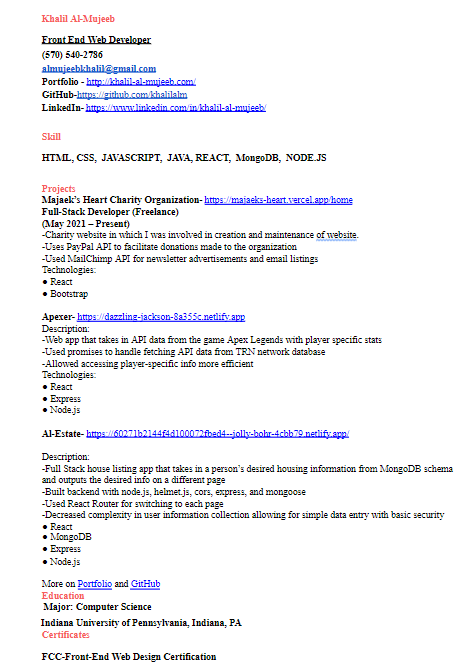
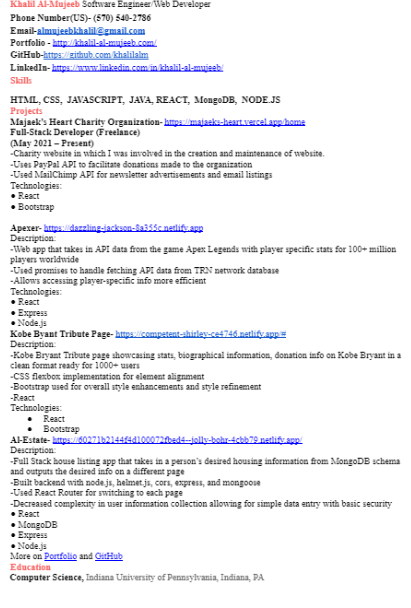
fixed the resume section and contact section

Changed region(s): [[0.0292, 0.0, 0.9927, 1.0]]

diff --git a/src/components/projects.js b/src/components/projects.js
@@ -5,6 +5,7 @@ import twitch from "../images/twitch.jpg";
 import alEstate from "../images/home.jpg";
 import apexer from "../images/Apexer.jpg";
 import kobe from "../images/KB1.jpg";
+import majaek from "../images/Majaek.jpg"
 
 class projects extends Component {
   state = {};
@@ -17,14 +18,14 @@ class projects extends Component {
           {" "}
 
 
-          <a href="https://dazzling-jackson-8a355c.netlify.app/">
+          <a href="https://dazzling-jackson-8a355c.netlify.app/" target="_blank">
             <div
               className="textOverImage"
               data-text="Apexer                                                                                                                                                                                                                               Apex Stat Tracking App made using
            TRN developer api for stat information and then used express to
            get the URL for the api.                                                                                                                                                                                                                                                                                                                                                                                                                                                         Technologies: -HTML -CSS -React -NodeJS "
             >
-              <a className="portfolio-item">
+              <a className="portfolio-item" target="_blank">
                 <img className="portfolio-img" src={apexer}></img>
               </a>
             </div>
@@ -34,13 +35,13 @@ class projects extends Component {
 
 
 
-          <a href="https://competent-shirley-ce4746.netlify.app">
+          <a href="https://competent-shirley-ce4746.netlify.app" target="_blank">
             <div
               className="textOverImage"
               data-text="Kobe Bryant Tribute Page                                                                                                                                                                                                                                Tribute page showcasing HTML and CSS styling techniques under the
       react framework in an organized design pattern.                                                                                                                                                                                                                                                                                                                                                                                                                                                         Technologies: -HTML -CSS -React "
             >
-              <a className="portfolio-item">
+              <a className="portfolio-item" target="_blank">
                 <img className="portfolio-img" src={kobe}></img>
               </a>
             </div>
@@ -49,45 +50,57 @@ class projects extends Component {
 
 
           
-          <a href="https://jolly-bohr-4cbb79.netlify.app">
+          <a href="https://jolly-bohr-4cbb79.netlify.app" target="_blank">
             <div
               className="textOverImage"
               data-text="Al-Estate                                                                                                                                                                                                                              Full Stack Home Tracking app that
                   takes in housing info you want to keep with you and let's you
                   create, remove, edit and delete listings.                                                                                                                                                                                                                                                                                                                                                                                                                                                         Technologies: -HTML -CSS -React -NodeJS -MongoDB"
             >
-              <a className="portfolio-item">
+              <a className="portfolio-item" target="_blank">
                 <img className="portfolio-img" src={alEstate}></img>
               </a>
             </div>
           </a>
-          <a href="https://trusting-montalcini-f0e213.netlify.app">
+          <a href="https://trusting-montalcini-f0e213.netlify.app" target="_blank">
             <div
               className="textOverImage"
               data-text="Twitch Clone                                                                                                                                                                                                                                                                                                                                                                                                                                                                                                                                                                                                                                                                                         
                       A clone of the popular streaming website Twitch.tv. Uses up to react hooks, css grid, flexbox and other core css styling elements.                                                                                                                                                                                                                             Technologies: -HTML -CSS -React
           "
             >
-              <a className="portfolio-item">
+              <a className="portfolio-item" target="_blank">
                 <img className="portfolio-img" src={twitch}></img>
               </a>
             </div>{" "}
           </a>
 
 {/* Gym shark */}
-          <a href="https://gymshark-clone-5tm8c69a4-khalilalm.vercel.app/">
+          <a href="https://gymshark-clone-5tm8c69a4-khalilalm.vercel.app/" target="_blank">
             <div
               className="textOverImage"
               data-text="GymShark Clone                                                                                                                                                                                                                                                                                                                                                                                                                                                                                                                                                                                                                                                                                         
                       A clone of the popular gym apparel website Gymshark.com. Used react slider for the banner display, css grid, flexbox and other css elements. Helped me get a better understanding of css flex, ui ux design and postioning in general.                                                                                                                                                                                                                            Technologies: -HTML -CSS -React
           "
             >
-              <a className="portfolio-item">
+              <a className="portfolio-item" target="_blank">
                 <img className="portfolio-img" src={gymshark}></img>
               </a>
             </div>{" "}
           </a>
 
+          <a href="https://majaeks-heart.vercel.app/home" target="_blank">
+            <div
+              className="textOverImage"
+              data-text="Majaek's Heart                                                                                                                                                                                                                                                                                                                                                                                                                                                                                                                                                                                                                                                                                         
+              Charity website in which I was involved in the creation and maintenance of website. Uses PayPal API to facilitate donations made to the organization. Used MailChimp API for newsletter advertisements and email listings                                                                                                                                                                                                                           Technologies: -HTML -CSS -React -Bootstrap
+          "
+            >
+              <a className="portfolio-item" target="_blank">
+                <img className="portfolio-img" src={majaek}></img>
+              </a>
+            </div>{" "}
+          </a>
 
 
 

diff --git a/src/components/contact.js b/src/components/contact.js
@@ -24,12 +24,15 @@ const FormRequest = () => {
   return (
     <div>
       <div className="contact-container">
-        <div className="contact-pad">
+        <h1 className="contact-text">Contact Me</h1>
+        <p className="contact-text">Email: Almujeebkhalil@gmail.com</p>
+        
+        {/* <div className="contact-pad">
           <form action="/access" className="Contact" onSubmit={submitRequest}>
-            <h2 className="contact-title">Contact Me</h2>
+            <h2 className="contact-title">Contact Me</h2> */}
 
             {/* Email */}
-            <div className="mb-4">
+            {/* <div className="mb-4">
               <label
                 className="block text-gray-700 text-sm font-bold mb-2"
                 htmlFor="Email"
@@ -45,10 +48,10 @@ const FormRequest = () => {
                 value={email}
                 required
               />
-            </div>
+            </div> */}
 
             {/* Phone Number */}
-            <div className="mb-4">
+            {/* <div className="mb-4">
               <label
                 className="block text-gray-700 text-sm font-bold mb-2"
                 htmlFor="Email"
@@ -64,9 +67,9 @@ const FormRequest = () => {
                 value={phoneNum}
                 required
               />
-            </div>
+            </div> */}
             {/* Name */}
-            <div className="mb-4">
+            {/* <div className="mb-4">
               <label
                 className="block text-gray-700 text-sm font-bold mb-2"
                 htmlFor="Name"
@@ -82,9 +85,9 @@ const FormRequest = () => {
                 value={name}
                 required
               />
-            </div>
+            </div> */}
             {/* Message */}
-            <div className="mb-4">
+            {/* <div className="mb-4">
               <label className="message-tb" htmlFor="message">
                 Message 
               </label>
@@ -104,7 +107,7 @@ const FormRequest = () => {
               </button>
             </div>
           </form>
-        </div>
+        </div> */}
       </div>
     </div>
   );

diff --git a/src/components/resume.js b/src/components/resume.js
@@ -9,7 +9,7 @@ class resume extends Component {
         <div className="resume-wrapper">
           <h1 className="resume-title">Resume</h1>
           <div className="resume-content">
-            <a href="https://docs.google.com/document/d/1qOQatNsrbqK33QUAeYoSmE35K8KXemHl/edit?usp=sharing&ouid=102019679261095126740&rtpof=true&sd=true">
+            <a href="https://docs.google.com/document/d/1qOQatNsrbqK33QUAeYoSmE35K8KXemHl/edit?usp=sharing&ouid=102019679261095126740&rtpof=true&sd=true" target="_blank">
               <img className="resume-image" src={resumeI}></img>
             </a>
           </div>

diff --git a/src/components/aboutMe.js b/src/components/aboutMe.js
@@ -12,7 +12,7 @@ class aboutMe extends Component {
         <div className="aboutMe-main">
           <div className="bg-wrpper">
             <h1 className="aboutMe-text"> &lt; Khalil Al-Mujeeb /&gt; </h1>
-            <h2 className="aboutMe-text">Front-End Web Developer</h2>
+            <h2 className="aboutMe-text">Software Engineer/Web Developer</h2>
           </div>
           <div className="img-container"></div>
           <img id="headShot" src={head}></img>

diff --git a/src/components/navBar.js b/src/components/navBar.js
@@ -26,7 +26,7 @@ const navSlide = () => {
   }
     return (
       <div className="nav-content">
-        <nav>
+        <nav className="navbar">
           <div className="logo">
             {" "}
             <h4>&lt; Khalil Al-Mujeeb's Web Portfolio /&gt;</h4>

diff --git a/src/components/contact.css b/src/components/contact.css
@@ -1,4 +1,4 @@
-.contact-title{
+.contact-text{
   text-align: center;
 }
 .contact-container {
@@ -9,6 +9,7 @@
   margin-right: 40%;
   border: 1px black solid;
   border-radius: 20px;
+  padding: 20px;
 }
 .contact-pad {
   padding: 10px;
